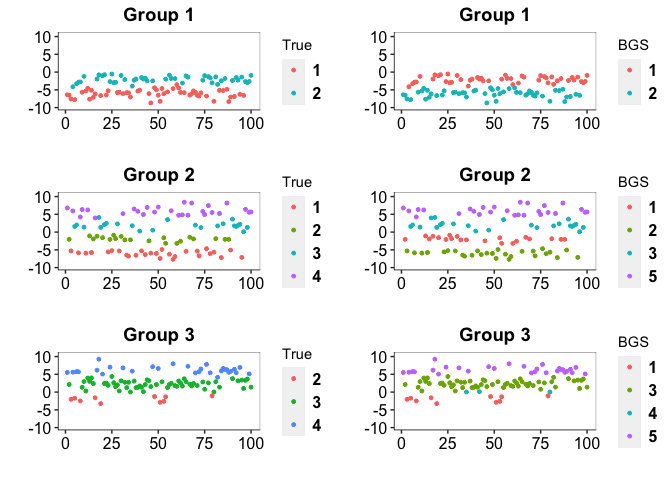
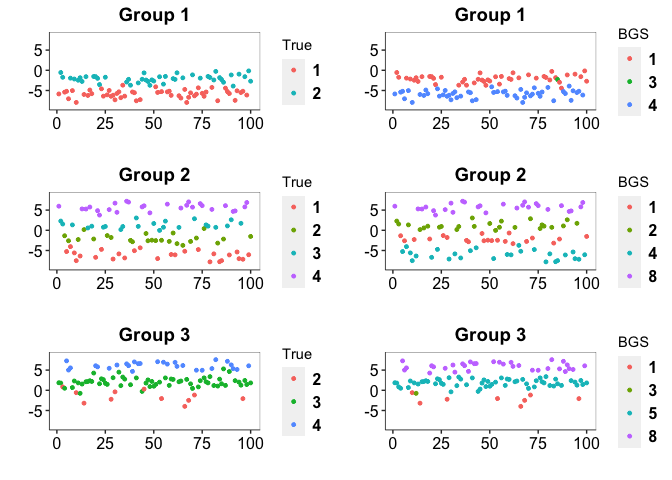
Updated README file.

diff --git a/README.md b/README.md
@@ -65,10 +65,10 @@ Gaussian mixture model having 4 true components.
 
 **Other specifications** :
 
-- Prior on $\phi$ : $\mathcal{N}(\xi, \lambda^{-1})$,  $\xi = 0$,
+- Prior on $\phi$ : $\mathcal{N}(\xi, \lambda^{-1})$, $\xi = 0$,
   $\lambda=1$.
 
-- Prior on $\alpha_0$ : Gamma$(\gamma, b_0)$,  $\gamma = 1$,
+- Prior on $\alpha_0$ : Gamma $(\gamma, b_0)$, $\gamma = 1$,
   $b_0 = 0.1$.
 
 - Truncation level : $L=10$.
@@ -158,7 +158,7 @@ g3 = plot_clusters(3, clusters)
 ggarrange(g1$g.true, g1$g.hat, g2$g.true, g2$g.hat, g3$g.true, g3$g.hat, ncol=2, nrow = 3)
 ```
 
-![](README_files/figure-gfm/unnamed-chunk-5-1.png)<!-- -->
+![](README_files/figure-gfm/unnamed-chunk-6-1.png)<!-- -->
 
 The adjusted Rand index between the true and BGS cluster labels :
 
@@ -168,7 +168,7 @@ ARI.global = mcclust::arandi(unlist(Z.hat), unlist(true.Z))
 ARI.global
 ```
 
-    ## [1] 0.9601396
+    ## [1] 0.922978
 
 ``` r
 # Group specific adjusted Rand indices
@@ -176,7 +176,7 @@ ARI = sapply(seq_len(J), function(j) arandi(Z.hat[[j]], true.Z[[j]]))
 ARI
 ```
 
-    ## [1] 0.9599978 0.9727607 0.8947388
+    ## [1] 1.0000000 0.8471121 0.9005652
 
 We estimate the densities for each group.
 
@@ -217,4 +217,4 @@ g.hist + geom_line(dat_dens, mapping = aes(x = grid, y = density, color = method
   theme(legend.position = "top", legend.title=element_blank()) + themegg
 ```
 
-![](README_files/figure-gfm/unnamed-chunk-8-1.png)<!-- -->
+![](README_files/figure-gfm/unnamed-chunk-9-1.png)<!-- -->
